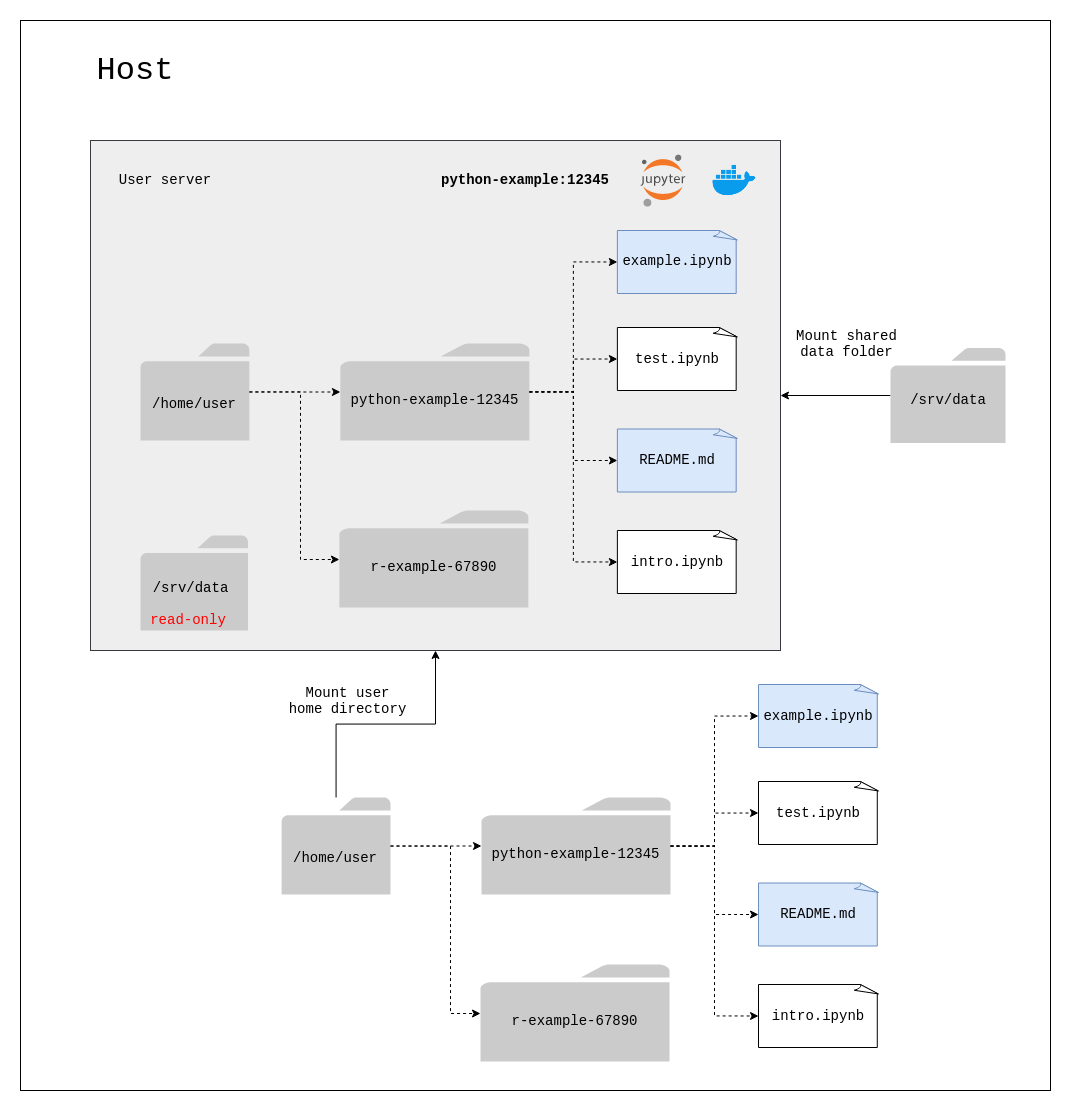
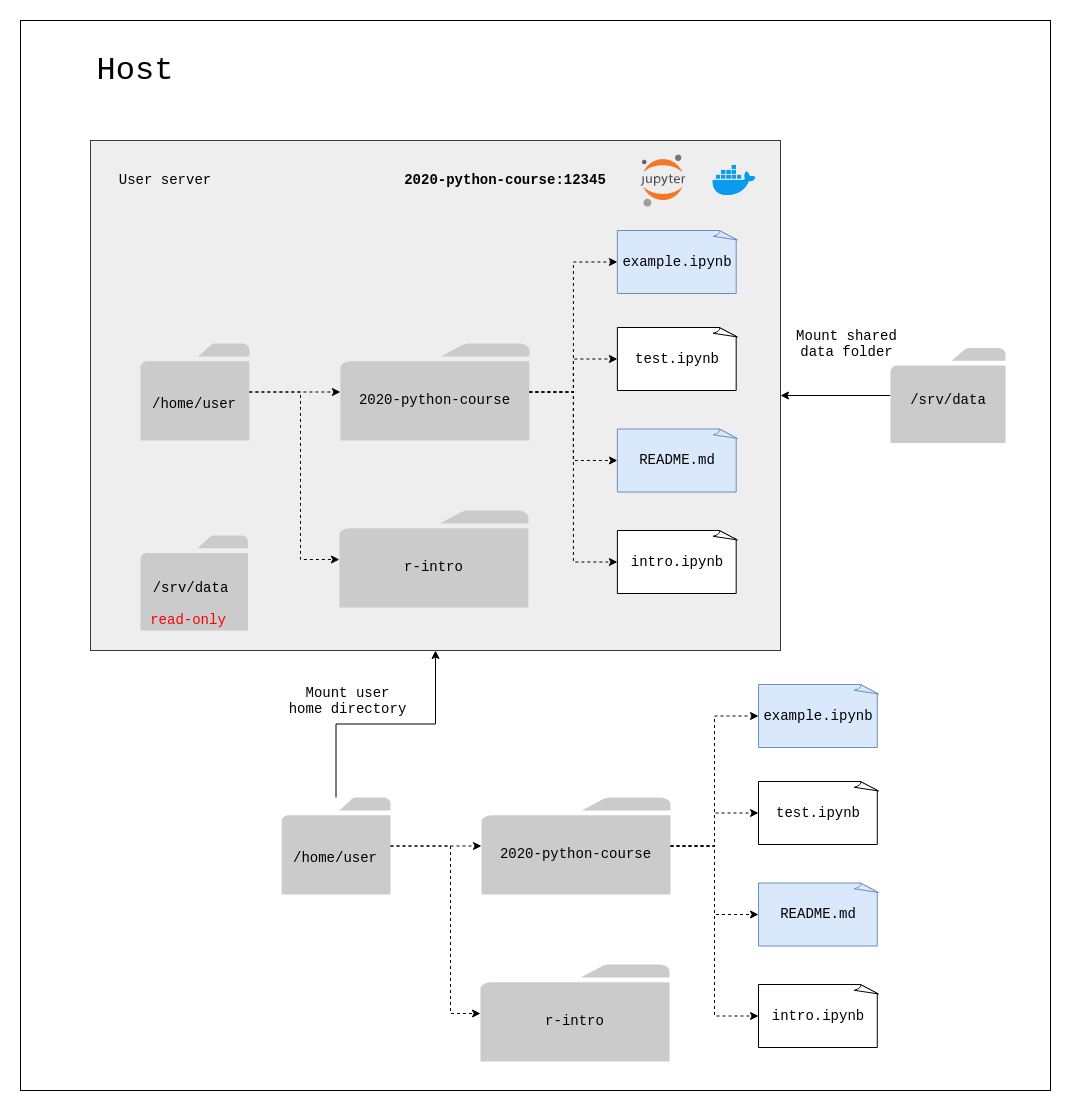
Update documentation and overview diagram

diff --git a/docs/configuration/persistence.rst b/docs/configuration/persistence.rst
@@ -33,10 +33,10 @@ The following steps happen when a user starts their server:
 
 1. Mount the user home directory on the host into the container. This means that the file structure in the container reflects what is on the host.
 2. A new directory is created in the user home directory for each new environment (i.e for each Docker image).
-   For example if a user starts the ``plasmabio/template-python:12345`` environment, there will be a new folder created under ``/home/user/plasmabio-template-python-12345``.
+   For example if a user starts the ``2020-python-course`` environment, there will be a new folder created under ``/home/user/2020-python-course``.
    This folder is then persisted to disk in the user home directory on the host. Any file and notebook created from the notebook interface are also persisted to disk.
-3. On server startup, the entrypoint script copies the files from the base image that are initially in ``/home/jovyan`` to ``/home/user/plasmabio-template-python-12345`` in the container.
-   They are then persisted in ``/home/user/plasmabio-template-python-12345`` on the host.
+3. On server startup, the entrypoint script copies the files from the base image that are initially in ``/home/jovyan`` to ``/home/user/2020-python-course`` in the container.
+   They are then persisted in ``/home/user/2020-python-course`` on the host.
 
 .. image:: ../images/configuration/persistence.png
    :alt: Mounting user's home directories
@@ -76,10 +76,9 @@ They can then inspect their files:
    1565895 4.0K drwxrwxr-x  2 foo  foo  4.0K Apr 21 09:55 .ipynb_checkpoints
    1565898 4.0K drwxr-xr-x  5 foo  foo  4.0K Apr 21 09:27 .ipython
    1565880 4.0K drwxrwxr-x  3 foo  foo  4.0K Apr 21 09:26 .local
-    258181    0 -rw-rw-r--  1 foo  foo     0 Apr 21 16:53 out
-   1050223 4.0K drwxrwxr-x 12 foo  foo  4.0K Apr 20 10:44 plasmabio-template-bash-master
-   1043222 4.0K drwxrwxr-x 13 foo  foo  4.0K Apr 20 17:07 plasmabio-template-python-master
     262926 4.0K -rw-r--r--  1 foo  foo   807 May  5  2019 .profile
+   1050223 4.0K drwxrwxr-x 12 foo  foo  4.0K Apr 20 10:44 2020-python-course
+   1043222 4.0K drwxrwxr-x 13 foo  foo  4.0K Apr 20 17:07 r-intro
     258193 4.0K -rw-rw-r--  1 foo  foo   843 Apr 21 09:56 Untitled.ipynb
 
 Shared Data
